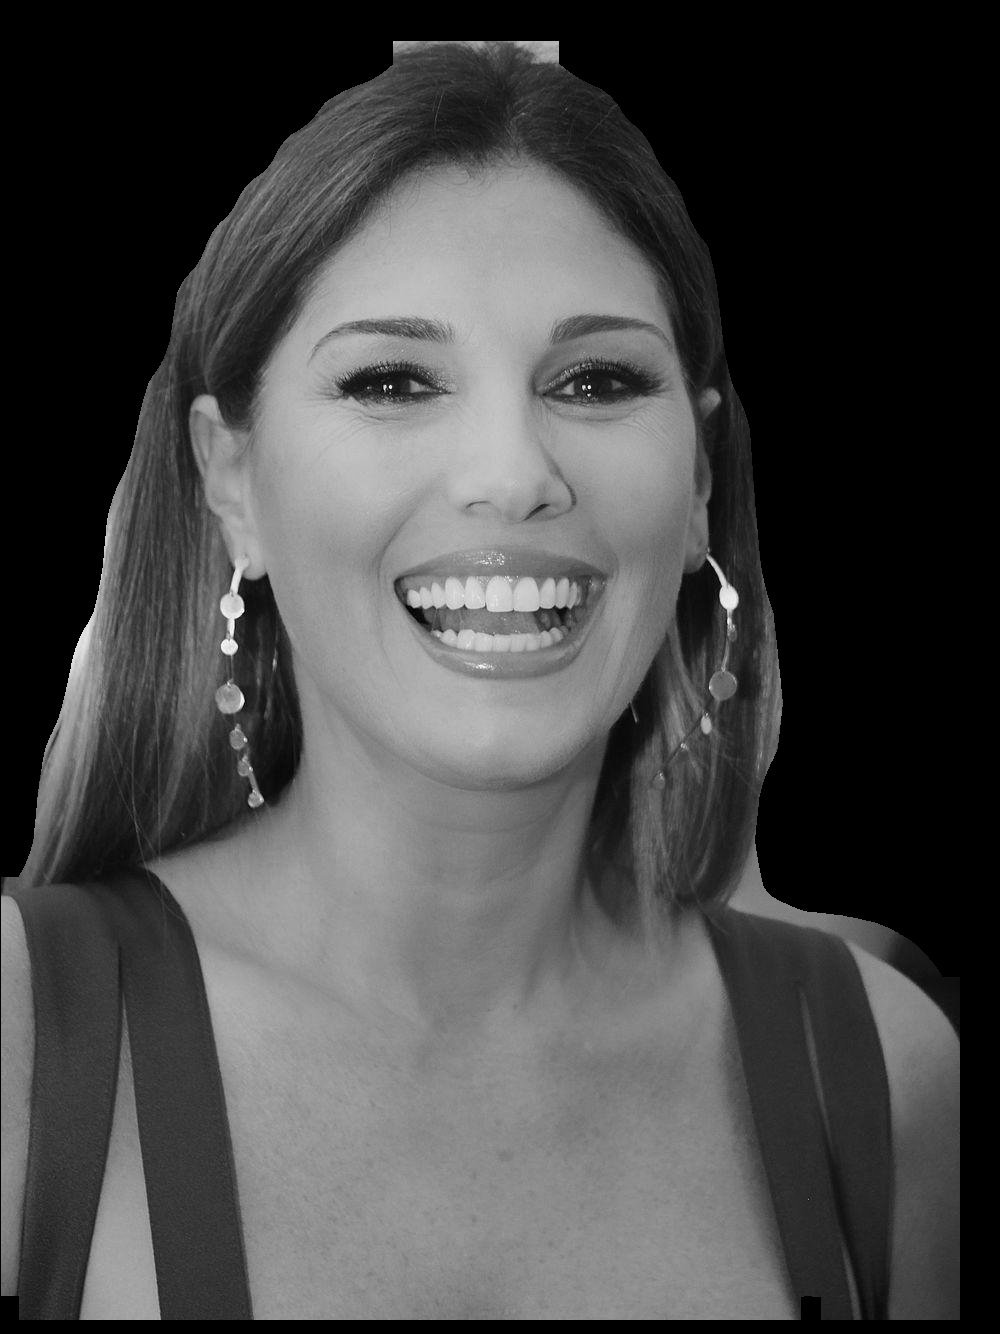
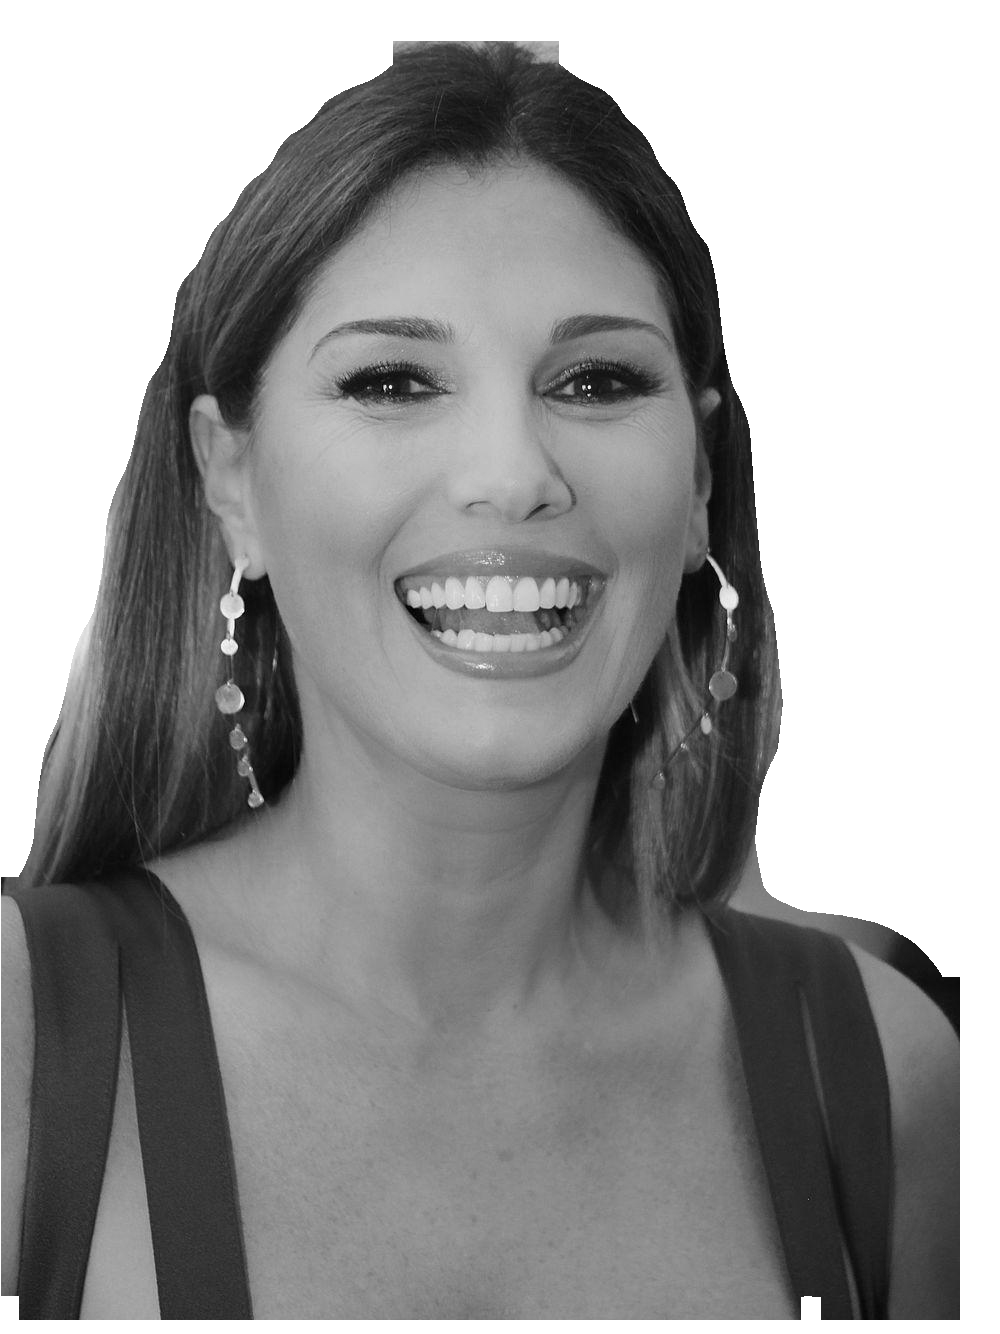
modified:   dbexpos_image.png 	modified:   mask.png 	modified:   plot.png 	modified:   visualize.py

diff --git a/visualize.py b/visualize.py
@@ -75,7 +75,7 @@ def apply_mask(image, mask, color, alpha=0.5):
     for c in range(3):       
         image[:, :, c] = np.where(mask == 0,
                                   image[:, :, c]
-                                   *0  ,
+                                   *0+255  ,
                                   image[:, :, c])
        
     return image
